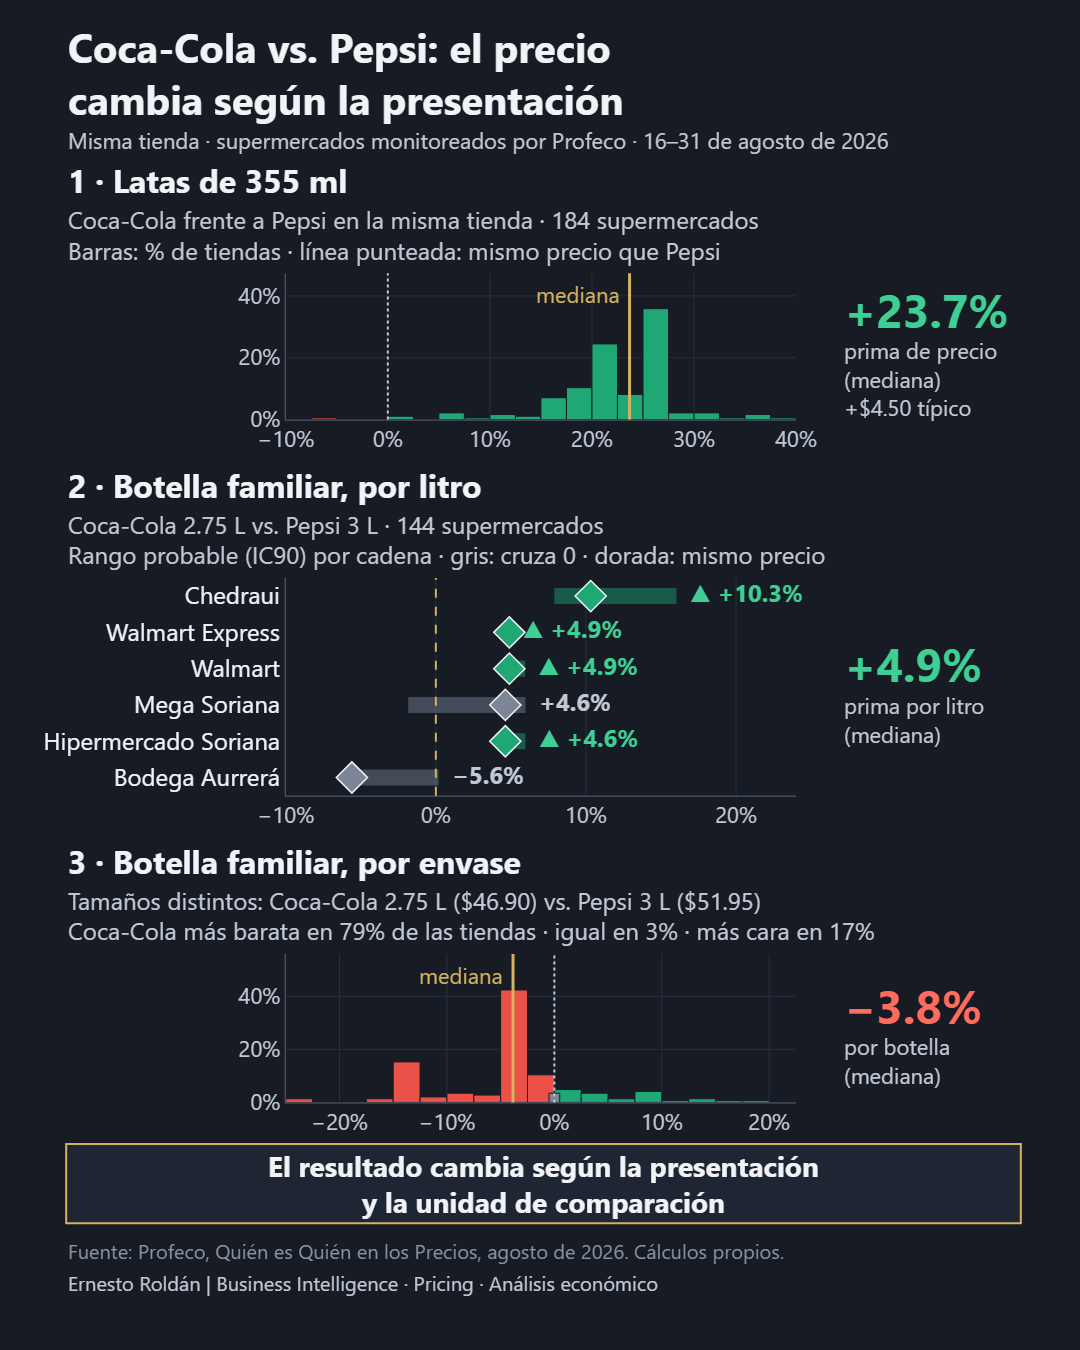
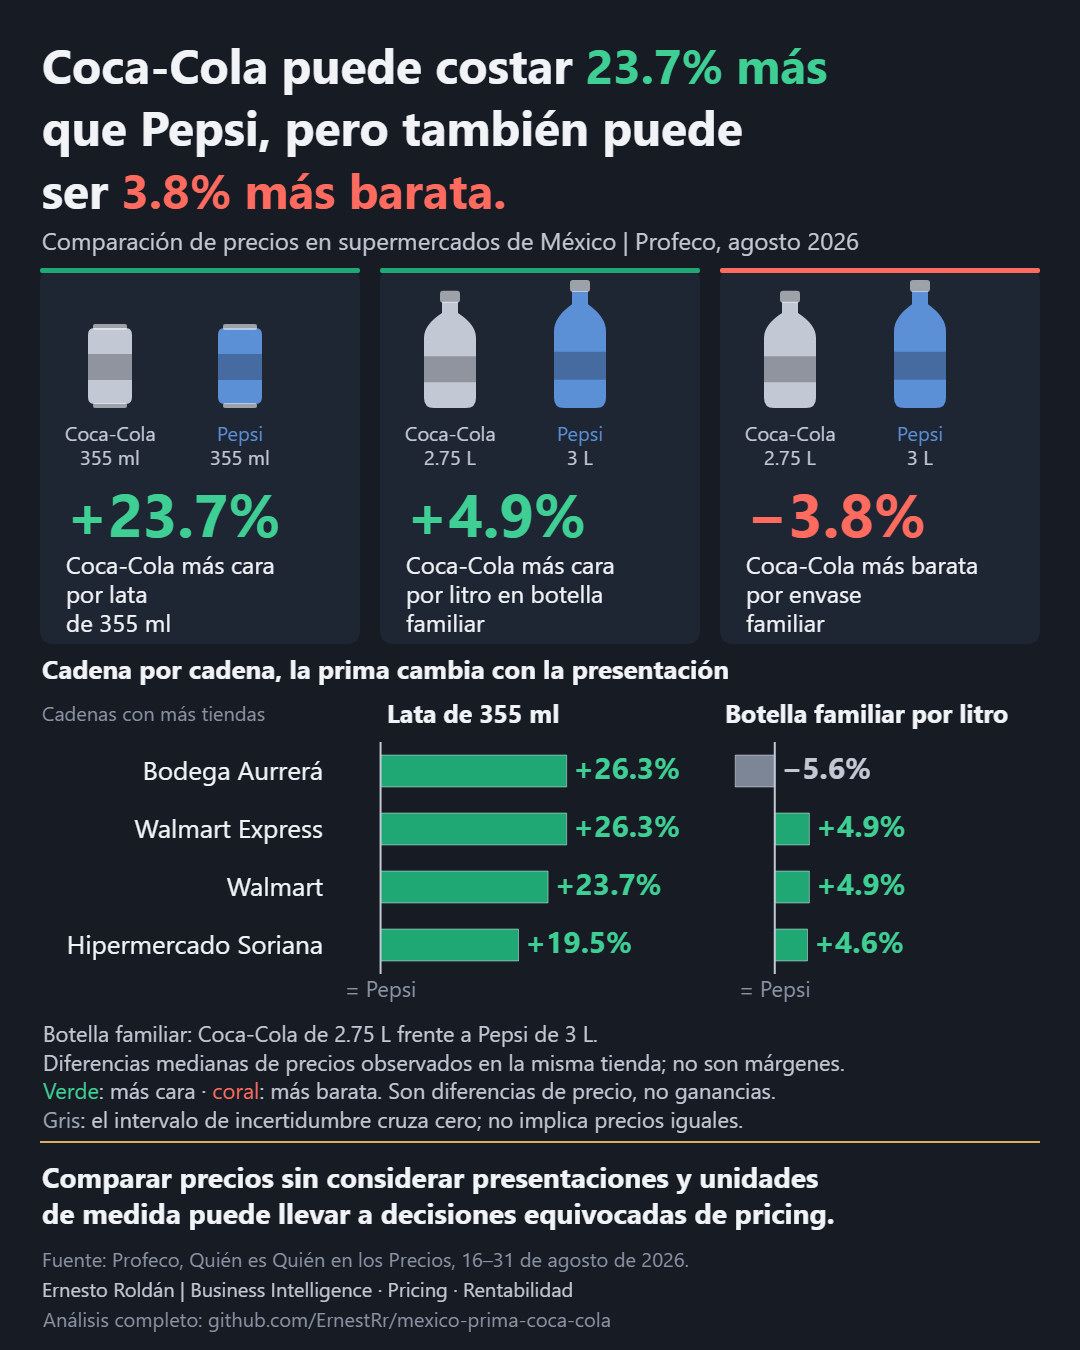
Rediseña la infografía: título, comparación por cadena y enlace al repositorio

Changed region(s): [[0.0306, 0.0, 0.9472, 0.9956], [0.9167, 0.84, 0.9472, 0.8711]]

diff --git a/publicacion/generar_infografia.py b/publicacion/generar_infografia.py
@@ -1,20 +1,20 @@
-"""Infografía estática de 1080×1350 px con tres gráficas estadísticas del análisis, hecha con Plotly y Kaleido.
+"""Infografía ejecutiva de 1080×1350 px (4:5): tres indicadores, una comparación por cadena comercial y la conclusión.
 
-Cada panel usa los datos procesados del proyecto, sin recalcular resultados (../data/processed/):
-1. Lata de 355 ml: distribución de la prima de Coca-Cola sobre Pepsi tienda por tienda (pares_lata.csv), con los mismos
-   cortes del histograma del reporte (−10 a 40%, cada 2.5 puntos) y la mediana de resultados.json.
-2. Botella familiar por litro: prima por cadena con IC90 (prima_desglose.csv), como en la gráfica 03 del análisis.
-3. Botella familiar por envase: diferencia de lo que se paga por botella, tienda por tienda (pares_familiar.csv, columnas
-   pesos_a = Pepsi 3 L y pesos_b = Coca-Cola 2.75 L).
-Colores del proyecto: verde = positivo (Coca-Cola más cara), rojo = negativo (más barata), dorado = referencia.
+Hecha con Plotly y Kaleido. Las cifras salen de ../data/processed/ y no se recalcula nada:
+  resultados.json  -> prima_lata (+23.7%), prima_familiar (+4.9%, por litro) y fam_empaque (−3.8%, por envase familiar);
+  prima_desglose.csv -> prima por cadena (formato) de la lata y de la botella familiar por litro, con su IC90.
+Son diferencias medianas de precios observados en la misma tienda, no márgenes, y comparan presentaciones distintas:
+lata de 355 ml, y Coca-Cola de 2.75 L frente a Pepsi de 3 L (por litro y por envase).
+Colores: verde = Coca-Cola más cara, coral = más barata, gris = el rango probable (IC90) cruza 0 (diferencia no clara).
+Las siluetas usan el color de cada marca en las gráficas del análisis (Coca-Cola gris claro, Pepsi azul); la altura de las
+botellas es proporcional a su volumen.
 
-Uso: python generar_infografia.py   (requiere plotly, kaleido, pandas, numpy)
+Uso: python generar_infografia.py   (requiere plotly, kaleido y pandas)
 """
 from pathlib import Path
 import json
 import sys
 
-import numpy as np
 import pandas as pd
 import plotly.graph_objects as go
 
@@ -23,167 +23,175 @@ PROY = AQUI.parent
 sys.path.insert(0, str(PROY / "src"))
 import charts as C  # noqa: E402  (paleta del proyecto)
 
-PROC = PROY / "data/processed"
 SALIDA = AQUI / "infografia_coca_cola_pepsi.png"
-
-# ----------------------------------------------------------------------------- datos (solo lectura)
+PROC = PROY / "data/processed"
 RES = {k: v["cifra"] for k, v in json.loads((PROC / "resultados.json").read_text(encoding="utf-8")).items()}
-PL = pd.read_csv(PROC / "pares_lata.csv")
-PF = pd.read_csv(PROC / "pares_familiar.csv")
 DES = pd.read_csv(PROC / "prima_desglose.csv")
-CAD = DES[(DES.comparacion == "familiar") & (DES.por == "formato")].sort_values("brecha_pct", ascending=False)
-ENV = (PF.pesos_b / PF.pesos_a - 1) * 100          # Coca-Cola 2.75 L frente a Pepsi 3 L, por botella
-PCT_MAS_BARATA = (ENV < 0).mean() * 100
-PCT_IGUAL = (ENV == 0).mean() * 100
-PCT_MAS_CARA = (ENV > 0).mean() * 100
+
+
+def por_cadena(comparacion):
+    return DES[(DES.comparacion == comparacion) & (DES.por == "formato")].set_index("grupo")
+
+
+LATA, LITRO = por_cadena("lata"), por_cadena("familiar")
+# Se muestran las cuatro cadenas con más tiendas (lata + botella familiar); las seis están en el reporte interactivo.
+TIENDAS = LATA.n_pares.add(LITRO.n_pares, fill_value=0)
+MAS_TIENDAS = list(TIENDAS.sort_values(ascending=False).index[:4])
+CADENAS = [c for c in LATA.sort_values("brecha_pct", ascending=False).index if c in MAS_TIENDAS]
 
 # ----------------------------------------------------------------------------- diseño
 W, H = 1080, 1350
 FONT = "Segoe UI, Arial, sans-serif"
-BG, PANEL = C.FIG, C.BOX
+BG, CARD = C.FIG, C.BOX
 TXT, TXT2, MUTED = C.TEXT, C.TEXT2, C.MUTED
-GREEN, RED, GOLD, NEUTRAL, GREEN_T, RED_T = C.GREEN, C.RED, C.GOLD, C.NEUTRAL, C.GREEN_T, C.RED_T
-XDOM = [0.25, 0.745]                              # ancho común de las tres gráficas
-PLOT = {1: (276, 424), 2: (584, 804), 3: (964, 1114)}   # alto de cada gráfica en px (arriba, abajo)
-HEAD = {1: 158, 2: 466, 3: 846}                    # arriba de cada encabezado de panel
-FOOT = "Fuente: Profeco, Quién es Quién en los Precios, agosto de 2026. Cálculos propios."
-FIRMA = "Ernesto Roldán | Business Intelligence · Pricing · Análisis económico"
+POS, POS_T = C.GREEN, C.GREEN_T                    # prima positiva: Coca-Cola más cara
+NEG = NEG_T = "#ff6b5f"                            # diferencia negativa (coral): Coca-Cola más barata
+GRIS, GRIS_T = C.NEUTRAL, C.TEXT2                  # rango probable que cruza 0
+COCA, PEPSI = C.TEXT2, "#5b8fd6"                   # colores de marca de las gráficas del análisis
+MX = 40                                            # margen lateral
 
 
-def mxn(v, dec=2):
-    return f"&#36;{v:,.{dec}f}"                      # «&#36;» evita que Plotly lea dos «$» como fórmula
+def pct(v, dec=1):
+    return ("+" if v > 0 else "−") + f"{abs(v):.{dec}f}%"
 
 
-def sgn(v, dec=1, pct=True):
-    s = f"{abs(v):.{dec}f}" + ("%" if pct else "")
-    return ("+" if v > 0 else "−") + s
+def color_fila(fila):
+    """Verde si el rango probable queda sobre 0, coral si queda bajo 0, gris si lo cruza."""
+    if fila.ic90_inf > 0:
+        return POS, POS_T
+    if fila.ic90_sup < 0:
+        return NEG, NEG_T
+    return GRIS, GRIS_T
 
 
-def dom(i):
-    top, bot = PLOT[i]
-    return [1 - bot / H, 1 - top / H]
+def ann(fig, x, y, text, size, color=TXT, bold=False, xanchor="left", yanchor="middle", align="left"):
+    """Texto en coordenadas de píxel del lienzo (eje oculto x4/y4)."""
+    fig.add_annotation(xref="x4", yref="y4", x=x, y=y, xanchor=xanchor, yanchor=yanchor, align=align, showarrow=False,
+                       text=f"<b>{text}</b>" if bold else text, font=dict(family=FONT, size=size, color=color))
 
 
-def ann(fig, x_px, y_px, text, size, color=TXT, bold=False, xanchor="left", yanchor="top", align="left", **kw):
-    fig.add_annotation(xref="paper", yref="paper", x=x_px / W, y=1 - y_px / H, xanchor=xanchor, yanchor=yanchor,
-                       align=align, showarrow=False, text=f"<b>{text}</b>" if bold else text,
-                       font=dict(family=FONT, size=size, color=color), **kw)
+def rrect(x, y, w, h, r):
+    return (f"M {x + r},{y} L {x + w - r},{y} Q {x + w},{y} {x + w},{y + r} L {x + w},{y + h - r} "
+            f"Q {x + w},{y + h} {x + w - r},{y + h} L {x + r},{y + h} Q {x},{y + h} {x},{y + h - r} L {x},{y + r} Q {x},{y} {x + r},{y} Z")
 
 
-def encabezado(fig, i, titulo, l1, l2):
-    ann(fig, 40, HEAD[i], titulo, 32, TXT, bold=True)
-    ann(fig, 40, HEAD[i] + 45, l1, 24, TXT2)
-    ann(fig, 40, HEAD[i] + 76, l2, 24, TXT2)
+def forma(fig, path, color, opacity=1.0):
+    fig.add_shape(type="path", xref="x4", yref="y4", path=path, fillcolor=color, opacity=opacity, line=dict(width=0))
 
 
-def hero(fig, i, grande, color, lineas):
-    """Cifra grande a la derecha de la gráfica, centrada en su alto, con una línea de unidad por renglón."""
-    total = 56 + 29 * len(lineas)
-    top = (PLOT[i][0] + PLOT[i][1]) / 2 - total / 2
-    ann(fig, 853, top, grande, 46, color, bold=True)
-    ann(fig, 853, top + 58, "<br>".join(lineas), 22, TXT2)
+def lata(fig, cx, base, color):
+    """Lata de 355 ml: cuerpo con hombros, aros superior e inferior y banda de etiqueta."""
+    top = base - 84
+    forma(fig, (f"M {cx - 22},{top + 11} Q {cx - 22},{top + 4} {cx - 16},{top + 4} L {cx + 16},{top + 4} "
+                f"Q {cx + 22},{top + 4} {cx + 22},{top + 11} L {cx + 22},{base - 11} Q {cx + 22},{base - 4} {cx + 16},{base - 4} "
+                f"L {cx - 16},{base - 4} Q {cx - 22},{base - 4} {cx - 22},{base - 11} Z"), color)
+    forma(fig, rrect(cx - 17, top, 34, 6, 2), TXT, 0.6)
+    forma(fig, rrect(cx - 17, base - 5, 34, 5, 2), TXT, 0.6)
+    forma(fig, rrect(cx - 22, top + 30, 44, 26, 0), BG, 0.3)
 
 
-def linea(fig, xref, i, x, color, dash, width=2):
-    y0, y1 = dom(i)
-    fig.add_shape(type="line", xref=xref, yref="paper", x0=x, x1=x, y0=y0, y1=y1, layer="above",
-                  line=dict(color=color, width=width, dash=dash))
+def botella(fig, cx, base, alto, color):
+    """Botella: la altura es proporcional al volumen (3 L = 128 px, 2.75 L = 117 px)."""
+    top, w = base - alto, 52
+    forma(fig, (f"M {cx - 8},{top + 11} L {cx - 8},{top + 0.19 * alto} Q {cx - w / 2},{top + 0.29 * alto} {cx - w / 2},{top + 0.40 * alto} "
+                f"L {cx - w / 2},{base - 10} Q {cx - w / 2},{base} {cx - w / 2 + 10},{base} L {cx + w / 2 - 10},{base} "
+                f"Q {cx + w / 2},{base} {cx + w / 2},{base - 10} L {cx + w / 2},{top + 0.40 * alto} "
+                f"Q {cx + w / 2},{top + 0.29 * alto} {cx + 8},{top + 0.19 * alto} L {cx + 8},{top + 11} Z"), color)
+    forma(fig, rrect(cx - 10, top, 20, 12, 3), TXT, 0.6)
+    forma(fig, rrect(cx - w / 2, top + 0.56 * alto, w, 0.22 * alto, 0), BG, 0.3)
 
 
-def eje(**kw):
-    base = dict(gridcolor=C.GRID, zeroline=False, showline=True, linecolor=C.AXIS, tickfont=dict(size=22, color=TXT2))
-    base.update(kw)
-    return base
+def tarjeta(fig, x0, top, valor, color, texto, color_t, figuras, etiquetas):
+    forma(fig, rrect(x0, top, 320, 376, 14), CARD)
+    forma(fig, rrect(x0, top, 320, 5, 2), color)                       # filo superior: signo de la diferencia
+    base = top + 140
+    for (cx, tipo, alto, col), (nombre, medida) in zip(figuras, etiquetas):
+        (lata(fig, x0 + cx, base, col) if tipo == "lata" else botella(fig, x0 + cx, base, alto, col))
+        ann(fig, x0 + cx, base + 24, nombre, 20, col, xanchor="center")
+        ann(fig, x0 + cx, base + 48, medida, 20, TXT2, xanchor="center")
+    ann(fig, x0 + 24, top + 244, valor, 60, color_t, bold=True)
+    for i, linea in enumerate(texto):
+        ann(fig, x0 + 24, top + 296 + 29 * i, linea, 24, TXT)
 
 
-def hist_tienda(fig, eje_n, edges, valores, colores_por_centro, ymax_ticks):
-    cnt = np.histogram(valores, bins=edges)[0] / len(valores) * 100
-    mids = (edges[:-1] + edges[1:]) / 2
-    fig.add_trace(go.Bar(x=mids, y=cnt, width=np.diff(edges), xaxis=f"x{eje_n}", yaxis=f"y{eje_n}", hoverinfo="skip",
-                         marker=dict(color=[colores_por_centro(m) for m in mids], line=dict(color=BG, width=1))))
-    top = cnt.max() * 1.32
-    return top, list(range(0, int(top) + 1, 20))
+def columna_cadenas(fig, tabla, eje):
+    """Barras por cadena de una comparación, con su valor; las dos columnas comparten escala."""
+    cats = CADENAS
+    colores = [color_fila(tabla.loc[c]) for c in cats]
+    vals = [tabla.loc[c, "brecha_pct"] for c in cats]
+    sufijo = "" if eje == 1 else str(eje)
+    fig.add_trace(go.Bar(x=vals, y=cats, orientation="h", xaxis=f"x{sufijo}", yaxis=f"y{sufijo}", hoverinfo="skip", width=0.55,
+                         marker=dict(color=[c[0] for c in colores])))
+    fig.add_trace(go.Scatter(x=[max(v, 0) + 0.9 for v in vals], y=cats, mode="text", xaxis=f"x{sufijo}", yaxis=f"y{sufijo}",
+                             hoverinfo="skip", cliponaxis=False, textposition="middle right",
+                             text=[f"<b>{pct(v)}</b>" for v in vals],
+                             textfont=dict(family=FONT, size=30, color=[c[1] for c in colores])))
 
 
 def construir():
+    lata_p, litro_p, envase_p = RES["prima_lata"], RES["prima_familiar"], RES["fam_empaque"]
     fig = go.Figure()
-    prima, mediana_env = RES["prima_lata"], RES["fam_empaque"]
+    fig.add_trace(go.Scatter(x=[0], y=[0], xaxis="x4", yaxis="y4", mode="markers", opacity=0, hoverinfo="skip"))
 
-    # --- panel 1: lata
-    top1, ticks1 = hist_tienda(fig, "", np.arange(-10, 42.5, 2.5), PL.prima_pct.clip(-10, 39.99).to_numpy(),
-                               lambda m: RED if m < 0 else GREEN, None)
-    # --- panel 3: botella por envase (los envases con el mismo precio van en gris)
-    neg, pos = ENV[ENV < 0], ENV[ENV > 0]
-    n = len(ENV)
-    e_neg, e_pos = np.arange(-25, 0.01, 2.5), np.arange(0, 22.6, 2.5)
-    for valores, edges, col in [(neg, e_neg, RED), (pos, e_pos, GREEN)]:
-        cnt = np.histogram(valores, bins=edges)[0] / n * 100
-        fig.add_trace(go.Bar(x=(edges[:-1] + edges[1:]) / 2, y=cnt, width=2.5, xaxis="x3", yaxis="y3", hoverinfo="skip",
-                             marker=dict(color=col, line=dict(color=BG, width=1))))
-    fig.add_trace(go.Bar(x=[0], y=[PCT_IGUAL], width=1.0, xaxis="x3", yaxis="y3", hoverinfo="skip",
-                         marker=dict(color=NEUTRAL, line=dict(color=BG, width=1))))
-    cnt_max3 = max(np.histogram(neg, bins=e_neg)[0].max(), np.histogram(pos, bins=e_pos)[0].max()) / n * 100
-    top3 = cnt_max3 * 1.32
-    ticks3 = list(range(0, int(top3) + 1, 20))
+    # --- encabezado: el título es lo más grande de la página
+    ann(fig, MX, 30, f"Coca-Cola puede costar <span style='color:{POS_T}'>{lata_p:.1f}% más</span><br>que Pepsi, pero también puede<br>"
+        f"ser <span style='color:{NEG_T}'>{abs(envase_p):.1f}% más barata.</span>", 48, TXT, bold=True, yanchor="top")
+    ann(fig, MX, 222, "Comparación de precios en supermercados de México | Profeco, agosto 2026", 24, TXT2, yanchor="top")
 
-    # --- panel 2: prima por litro por cadena, con IC90
-    nombres = [g for g in CAD.grupo]
-    for r in CAD.itertuples():
-        col = GREEN if r.ic90_inf > 0 else (RED if r.ic90_sup < 0 else NEUTRAL)
-        fig.add_trace(go.Scatter(x=[r.ic90_inf, r.ic90_sup], y=[r.grupo, r.grupo], mode="lines", xaxis="x2", yaxis="y2",
-                                 line=dict(color=col, width=16), opacity=0.45, hoverinfo="skip"))
-        fig.add_trace(go.Scatter(x=[r.brecha_pct], y=[r.grupo], mode="markers", xaxis="x2", yaxis="y2", hoverinfo="skip",
-                                 marker=dict(symbol="diamond", size=24, color=col, line=dict(color=TXT, width=1.5))))
-        txt_col = GREEN_T if r.ic90_inf > 0 else (RED_T if r.ic90_sup < 0 else TXT2)
-        arrow = "▲ " if r.ic90_inf > 0 else ("▼ " if r.ic90_sup < 0 else "")
-        fig.add_trace(go.Scatter(x=[max(r.ic90_sup, r.brecha_pct) + 0.9], y=[r.grupo], mode="text", xaxis="x2",
-                                 yaxis="y2", hoverinfo="skip", cliponaxis=False, textposition="middle right",
-                                 text=[f"<b>{arrow}{sgn(r.brecha_pct)}</b>"],
-                                 textfont=dict(family=FONT, size=24, color=txt_col)))
+    # --- tres indicadores
+    top = 268
+    pareja = lambda tipo, alto_c, alto_p: [(70, tipo, alto_c, COCA), (200, tipo, alto_p, PEPSI)]
+    tarjeta(fig, MX, top, pct(lata_p), POS, ["Coca-Cola más cara", "por lata", "de 355 ml"], POS_T,
+            pareja("lata", 0, 0), [("Coca-Cola", "355 ml"), ("Pepsi", "355 ml")])
+    tarjeta(fig, MX + 340, top, pct(litro_p), POS, ["Coca-Cola más cara", "por litro en botella", "familiar"], POS_T,
+            pareja("botella", 128 * 2.75 / 3, 128), [("Coca-Cola", "2.75 L"), ("Pepsi", "3 L")])
+    tarjeta(fig, MX + 680, top, pct(envase_p), NEG, ["Coca-Cola más barata", "por envase", "familiar"], NEG_T,
+            pareja("botella", 128 * 2.75 / 3, 128), [("Coca-Cola", "2.75 L"), ("Pepsi", "3 L")])
 
+    # --- comparación por cadena comercial (dos columnas, misma escala)
+    ytop, ybot = 742, 974
+    x_izq, x_der = [0.30, 0.575], [0.665, 0.94]
+    ann(fig, MX, 668, "Cadena por cadena, la prima cambia con la presentación", 26, TXT, bold=True)
+    ann(fig, MX, 712, "Cadenas con más tiendas", 20, MUTED)
+    ann(fig, (x_izq[0] + x_izq[1]) / 2 * W, 712, "Lata de 355 ml", 25, TXT, bold=True, xanchor="center")
+    ann(fig, (x_der[0] + x_der[1]) / 2 * W, 712, "Botella familiar por litro", 25, TXT, bold=True, xanchor="center")
+    columna_cadenas(fig, LATA, 1)
+    columna_cadenas(fig, LITRO, 2)
+    dom_y = [1 - ybot / H, 1 - ytop / H]
+    eje_x = dict(range=[-8, 34], showgrid=False, zeroline=False, showline=False, fixedrange=True, ticks="",
+                 tickvals=[0], ticktext=["= Pepsi"], tickfont=dict(family=FONT, size=22, color=MUTED))
+    eje_y = dict(domain=dom_y, type="category", categoryorder="array", categoryarray=CADENAS, autorange="reversed",
+                 showgrid=False, zeroline=False, showline=False, ticks="")
     fig.update_layout(
-        width=W, height=H, paper_bgcolor=BG, plot_bgcolor=BG, showlegend=False, margin=dict(l=0, r=0, t=0, b=0),
-        font=dict(family=FONT, size=22, color=TXT2), bargap=0,
-        xaxis=eje(domain=XDOM, anchor="y", range=[-10, 40], dtick=10, ticksuffix="%"),
-        yaxis=eje(domain=dom(1), anchor="x", range=[0, top1], tickvals=ticks1, ticktext=[f"{t}%" for t in ticks1]),
-        xaxis2=eje(domain=XDOM, anchor="y2", range=[-10, 24], dtick=10, ticksuffix="%"),
-        yaxis2=eje(domain=dom(2), anchor="x2", type="category", categoryorder="array", categoryarray=nombres,
-                   range=[len(nombres) - 0.5, -0.5], gridcolor="rgba(0,0,0,0)", tickfont=dict(size=24, color=TXT)),
-        xaxis3=eje(domain=XDOM, anchor="y3", range=[-25, 22.5], dtick=10, ticksuffix="%"),
-        yaxis3=eje(domain=dom(3), anchor="x3", range=[0, top3], tickvals=ticks3, ticktext=[f"{t}%" for t in ticks3]))
+        width=W, height=H, paper_bgcolor=BG, plot_bgcolor="rgba(0,0,0,0)", showlegend=False, margin=dict(l=0, r=0, t=0, b=0),
+        font=dict(family=FONT, size=22, color=TXT),
+        xaxis=dict(domain=x_izq, anchor="y", **eje_x),
+        yaxis=dict(anchor="x", tickfont=dict(family=FONT, size=26, color=TXT), **eje_y),
+        xaxis2=dict(domain=x_der, anchor="y2", **eje_x),
+        yaxis2=dict(anchor="x2", showticklabels=False, **eje_y),
+        xaxis4=dict(domain=[0, 1], range=[0, W], visible=False, fixedrange=True),
+        yaxis4=dict(domain=[0, 1], range=[H, 0], visible=False, fixedrange=True))
+    for ref in ("x", "x2"):
+        fig.add_shape(type="line", xref=ref, yref="paper", x0=0, x1=0, y0=dom_y[0], y1=dom_y[1], line=dict(color=TXT2, width=2))
 
-    # referencias: 0 = mismo precio que Pepsi; dorado = mediana
-    linea(fig, "x", 1, 0, TXT2, "dot")
-    linea(fig, "x", 1, prima, GOLD, "solid", 3)
-    linea(fig, "x2", 2, 0, GOLD, "dash", 2)
-    linea(fig, "x3", 3, 0, TXT2, "dot")
-    linea(fig, "x3", 3, mediana_env, GOLD, "solid", 3)
-    for xr, i, x, top in [("x", 1, prima, top1), ("x3", 3, mediana_env, top3)]:
-        fig.add_annotation(xref=xr, yref="paper", x=x, y=dom(i)[1], xanchor="right", yanchor="top", xshift=-8, yshift=-4,
-                           showarrow=False, text="mediana", font=dict(family=FONT, size=22, color=GOLD))
+    # --- cómo leerla
+    ann(fig, MX, 1016,
+        "Botella familiar: Coca-Cola de 2.75 L frente a Pepsi de 3 L.<br>"
+        "Diferencias medianas de precios observados en la misma tienda; no son márgenes.<br>"
+        f"<span style='color:{POS_T}'>Verde</span>: más cara · <span style='color:{NEG_T}'>coral</span>: más barata. "
+        "Son diferencias de precio, no ganancias.<br>"
+        "<span style='color:#9aa3b2'>Gris</span>: el intervalo de incertidumbre cruza cero; no implica precios iguales.",
+        22, TXT2, yanchor="top")
 
-    # --- textos
-    ann(fig, 40, 18, "Coca-Cola vs. Pepsi: el precio<br>cambia según la presentación", 40, TXT, bold=True)
-    ann(fig, 40, 124, "Misma tienda · supermercados monitoreados por Profeco · 16–31 de agosto de 2026", 22, TXT2)
+    # --- conclusión
+    fig.add_shape(type="line", xref="x4", yref="y4", x0=MX, x1=W - MX, y0=1142, y1=1142, line=dict(color=C.GOLD, width=2))
+    ann(fig, MX, 1156, "Comparar precios sin considerar presentaciones y unidades<br>"
+        "de medida puede llevar a decisiones equivocadas de pricing.", 28, TXT, bold=True, yanchor="top")
 
-    encabezado(fig, 1, "1 · Latas de 355 ml", f"Coca-Cola frente a Pepsi en la misma tienda · {RES['pares_lata']:.0f} supermercados",
-               "Barras: % de tiendas · línea punteada: mismo precio que Pepsi")
-    hero(fig, 1, sgn(prima), GREEN_T, ["prima de precio", "(mediana)", f"{sgn(RES['pesos_lata'], 2, False).replace('+', '+&#36;')} típico"])
-    encabezado(fig, 2, "2 · Botella familiar, por litro", f"Coca-Cola 2.75 L vs. Pepsi 3 L · {RES['pares_familiar']:.0f} supermercados",
-               "Rango probable (IC90) por cadena · gris: cruza 0 · dorada: mismo precio")
-    hero(fig, 2, sgn(RES["prima_familiar"]), GREEN_T, ["prima por litro", "(mediana)"])
-    encabezado(fig, 3, "3 · Botella familiar, por envase",
-               f"Tamaños distintos: Coca-Cola 2.75 L ({mxn(RES['fam_coca'])}) vs. Pepsi 3 L ({mxn(RES['fam_pepsi'])})",
-               f"Coca-Cola más barata en {PCT_MAS_BARATA:.0f}% de las tiendas · igual en {PCT_IGUAL:.0f}% · más cara en {PCT_MAS_CARA:.0f}%")
-    hero(fig, 3, sgn(mediana_env), RED_T, ["por botella", "(mediana)"])
-
-    # --- conclusión, fuente y firma
-    fig.add_shape(type="rect", xref="paper", yref="paper", x0=40 / W, x1=1040 / W, y0=1 - 1236 / H, y1=1 - 1156 / H,
-                  fillcolor=PANEL, line=dict(color=GOLD, width=2))
-    ann(fig, W / 2, 1196, "El resultado cambia según la presentación<br>y la unidad de comparación", 28, TXT, bold=True,
-        xanchor="center", yanchor="middle", align="center")
-    ann(fig, 40, 1264, FOOT, 20, MUTED, yanchor="middle")
-    ann(fig, 40, 1296, FIRMA, 20, TXT2, yanchor="middle")
+    # --- pie
+    ann(fig, MX, 1258, "Fuente: Profeco, Quién es Quién en los Precios, 16–31 de agosto de 2026.", 20, MUTED)
+    ann(fig, MX, 1288, "Ernesto Roldán | Business Intelligence · Pricing · Rentabilidad", 20, TXT2)
+    ann(fig, MX, 1318, "Análisis completo: github.com/ErnestRr/mexico-prima-coca-cola", 20, MUTED)
     return fig
 
 

diff --git a/publicacion/README.md b/publicacion/README.md
@@ -2,8 +2,8 @@
 
 | Archivo | Contenido |
 |---|---|
-| `infografia_coca_cola_pepsi.png` | Infografía de 1080 × 1350 px con tres gráficas del análisis |
-| `generar_infografia.py` | Genera la infografía con Plotly y Kaleido, a partir de `data/processed/` |
+| `infografia_coca_cola_pepsi.png` | Infografía de 1080 × 1350 px: tres indicadores, comparación por cadena comercial y conclusión |
+| `generar_infografia.py` | Genera la infografía con Plotly y Kaleido, a partir de `data/processed/` (`resultados.json` y `prima_desglose.csv`) |
 | `texto_publicacion.txt` | Texto de la publicación |
 | `coca_cola_pepsi_plotly.gif` | Animación de 15 s (1080 × 1080) con las cuatro gráficas del análisis |
 | `coca_cola_pepsi_plotly.mp4` | La misma animación en video |
